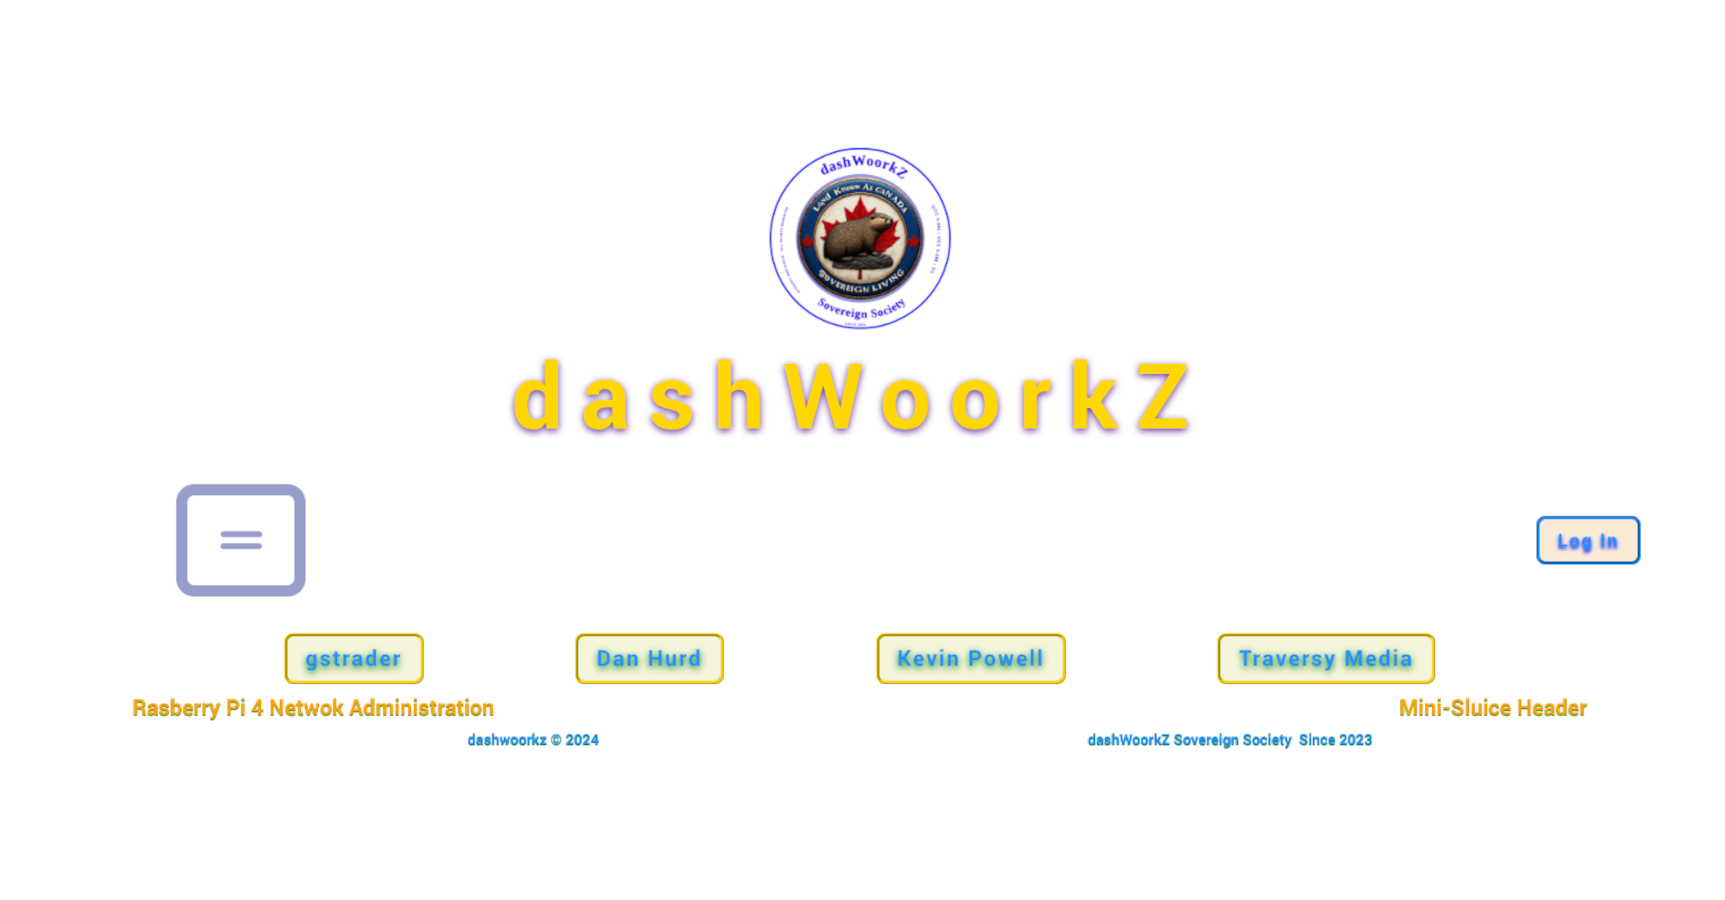
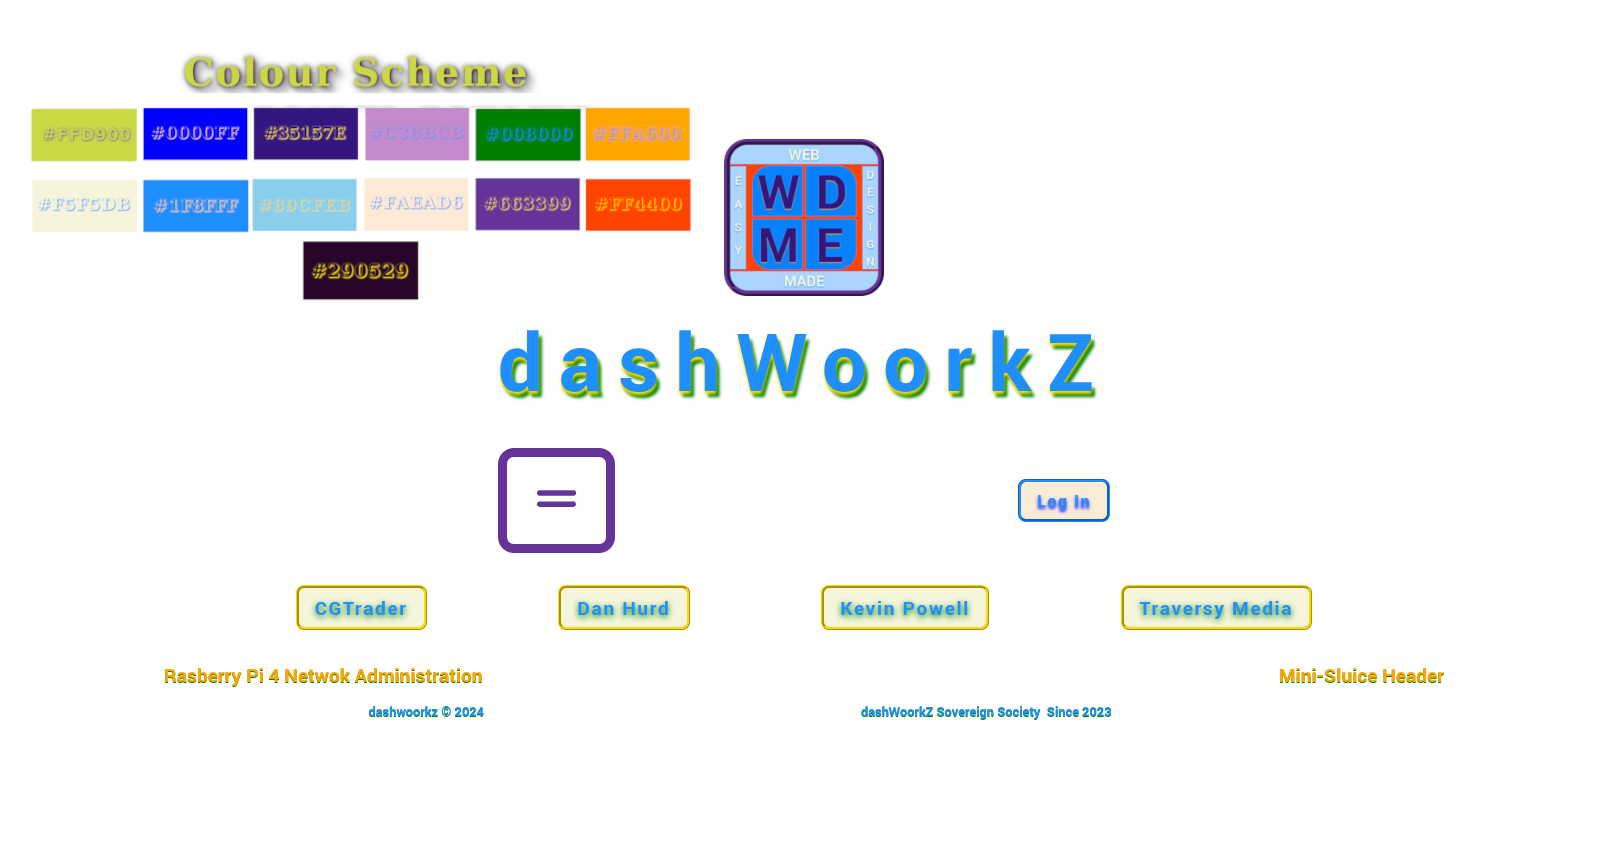
Final Video Content
Figma type images include Colour Scheme
Created New Logo
Other changes...

diff --git a/css/styles.css b/css/styles.css
@@ -6,27 +6,27 @@
 
     --gold: hsl(51, 100%, 50%);
     --blue: hsl(240, 100%, 50%);
-    --darkblue: rgb(53, 22, 128);
-    --purple: hsl(300, 100%, 25%);
-    --light-purple: hsl(293, 38%, 67%);
+    --darkblue: #35157e;
+    --light-purple: hsl(294, 80%, 86%);
     --green: hsl(120, 100%, 25%);
-    --yellow: hsl(60, 100%, 50%);
     --orange: hsl(39, 100%, 50%);
-    --red: hsl(0, 100%, 50%);
-    --brown: hsl(0, 59%, 41%);
-    --beige: hsl(60, 56%, 91%);
+    --beige: hsl(60, 57%, 91%);
     --dodgerblue: hsl(210, 100%, 56%);
     --skyblue: hsl(197, 71%, 73%);
-    --antiquewhite: hsl(34, 78%, 91%);
+    --antiquewhite: #faead6;
     --rebeccapurple: hsl(270, 50%, 40%);
     --orangered: hsl(16, 100%, 50%);
-    --li-hover-bg: hsla(300, 100%, 25%, 0.3);
+    --li-hover-bg: hsl(300, 78%, 9%);
+    --logo-element-bg-w: hsl(from var(--dodgerblue) h s calc(l - 5));
+    --logo-element-bg-d: hsl(from var(--dodgerblue) h s calc(l + 25));
+    --logo-element-bg-m: hsl(from var(--dodgerblue) h s calc(l + 27.5));
+    /* --logo-element-bg-e: hsl(from var(--dodgerblue) h s calc(l + 35)); */
     --maxWidth: 100svw;
-    --maxHeight: 100svh;
-    --inline-padding: 1.5rem 2.5rem;  
+    --pad025: 0.25rem;
     --pad05: 0.5rem;
     --pad1: 1rem;
     --pad2: 2rem;
+
      
 }
 
@@ -46,6 +46,7 @@
     box-sizing: border-box;
     outline: none;
     border: none;
+    text-wrap: balance;
 }
 
 html {
@@ -242,12 +243,13 @@ header section {
             transition: all 1000ms ease-in-out;
             padding-block: 0.5rem;
             padding-inline: 1rem;
-            
+            background-color: transparent;
         }
           
         & :hover {
             color: var(--beige);
-            text-shadow: 0 -0.1rem 0.4rem var(--blue);
+            text-shadow: 0 -0.2rem 0.2rem  var(--blue), -0.2rem -0.2rem 0.2rem var(--rebeccapurple);
+            background-color: var(--dodgerblue);
         }
     } 
 }
@@ -300,13 +302,14 @@ aside {
     line-height: 1.2;
     font-weight: 800;
     color: var(--dodgerblue);
-    text-shadow: 0 0.2rem 0.2rem var(--gold), 0.2rem 0.2rem 0.2rem var(--green);
+    text-shadow: 0 0.2rem 0.2rem var(--gold), 0.2rem 0.4rem 0.2rem var(--green);
     font-size: clamp(1.5rem, 1.75rem, 2rem);
     text-align: center;
+    transition: all 1000ms ease;
 
         &:hover {
-            color: var(--green);
-            text-shadow: 0 0.2rem 0.2rem  var(--antiquewhite), -0.2rem 0.2rem 0.2rem var(--orangered);
+            color: var(--skyblue);
+            text-shadow: 0 -0.2rem 0.2rem  var(--dodgerblue), 0.2rem -0.2rem 0.2rem var(--blue);
 
         }
 }
@@ -414,15 +417,7 @@ aside {
     }
 
     #login h1 {
-
-        color: var(--gold);
-        text-shadow: 0 0.1rem 0.4rem var(--rebeccapurple);
         font-size: 5rem;
-    
-        &:hover {
-            color: var(--green);
-            text-shadow: 0 -0.2rem 0.2rem  var(--antiquewhite), -0.2rem 0.2rem 0.2rem var(--orangered);
-        }
     }
               
     #hdrNav {
@@ -473,13 +468,13 @@ aside {
         border: 0.2rem solid var(--blue);
         border-radius: 0.4rem;
         max-width: 15rem;
-        transition: all 500ms ease;
+        transition: all 1000ms ease;
     }
 
 
     #hdrNav li:hover {
         border: 0.2rem solid var(--rebeccapurple);
-        background-color: var(--li-hover-bg);
+        background-color: var(--beige);
     }
     #hdrNav li a {
         text-decoration: none;
@@ -490,15 +485,13 @@ aside {
         line-height: 1.5;
         color: var(--clr-primary);
         text-shadow: 0 0.1rem 0.2rem var(--gold);
-        transition: all 500ms ease-in-out;
+        transition: all 1000ms ease-in-out;
         background-color: transparent;
     }
 
     #hdrNav li a:hover {
         color: var(--gold);
         text-shadow: 0 0.1rem 0.2rem var(--blue);
-        transition: all 500ms ease-in-out;
-    
     }
 
     .button-three {
@@ -506,9 +499,9 @@ aside {
         opacity: 1;
         visibility: visible;
         background: transparent;
-        border: 10px solid var(--button-color, #bc0fd3);
+        border: 0.624rem solid var(--button-color, var(--rebeccapurple));
         border-radius: 1rem;
-        --button-color: rgba(0, 9, 128, 0.4);
+        --button-color: var(--rebeccapurple);
         overflow: hidden;
     }
 
@@ -534,12 +527,12 @@ aside {
     .btn {
         rotate: 0;
         scale: 1;
-        max-width: 14.5rem;
+        max-width: 10rem;
         transition: all 500ms ease-in-out;
     }
 
     .btn:hover {
-        --button-color: var(--orange);
+        --button-color: var(--rebeccapurple);
         rotate:360deg;
         scale: .8;
     }
@@ -550,7 +543,7 @@ aside {
         color: var(--blue);
         text-shadow: 0 0.025rem 1rem var(--rebeccapurple);
         background-color: var(--skyblue);
-        border: 0.1rem solid var(--rebeccapurple);
+        border: 0.2rem solid var(--rebeccapurple);
         text-transform: capitalize;
         padding: 0.5rem 1rem;
         cursor: pointer;
@@ -563,7 +556,7 @@ aside {
         color: rgb(37, 2, 48);
         text-shadow: 0 0.025rem 1rem var(--darkblue);
         background-color: var(--light-purple);
-        border: 0.1rem solid var(--rebeccapurple);
+        border: 0.2rem solid var(--rebeccapurple);
         cursor: pointer;
         transition: all 500ms;
     }

diff --git a/index.html b/index.html
@@ -14,7 +14,7 @@
     <div class="landing">
 
         <header>
-            <img src="imgs/dss_beaver_logo_sml.png" alt="Brand Name Logo" class="logo">
+            <img src="imgs/wdmeLogo_sm.png" alt="Brand Name Logo" class="logo">
             <section>
                 <aside id="login">
                     <h1 class="brandNameTitle">
